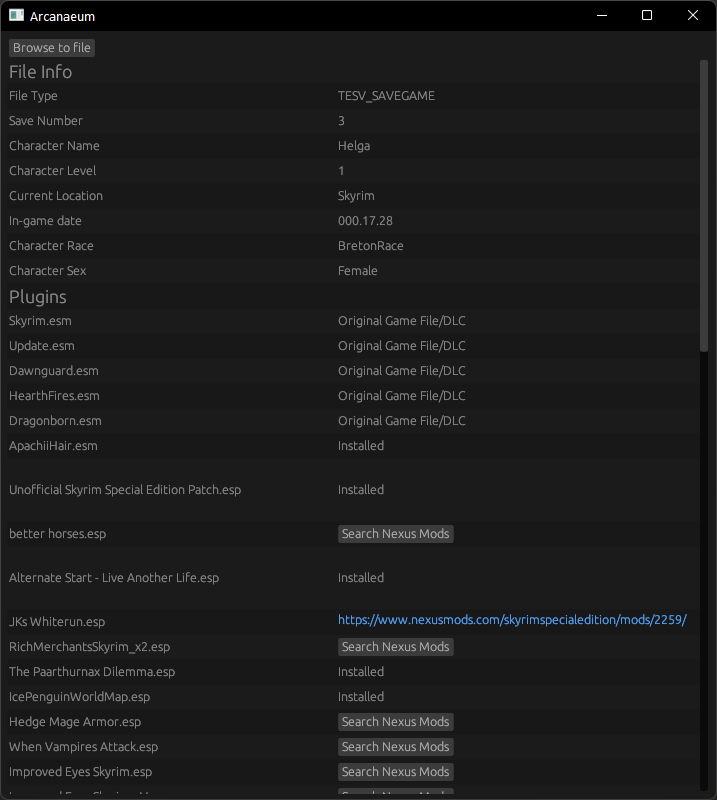
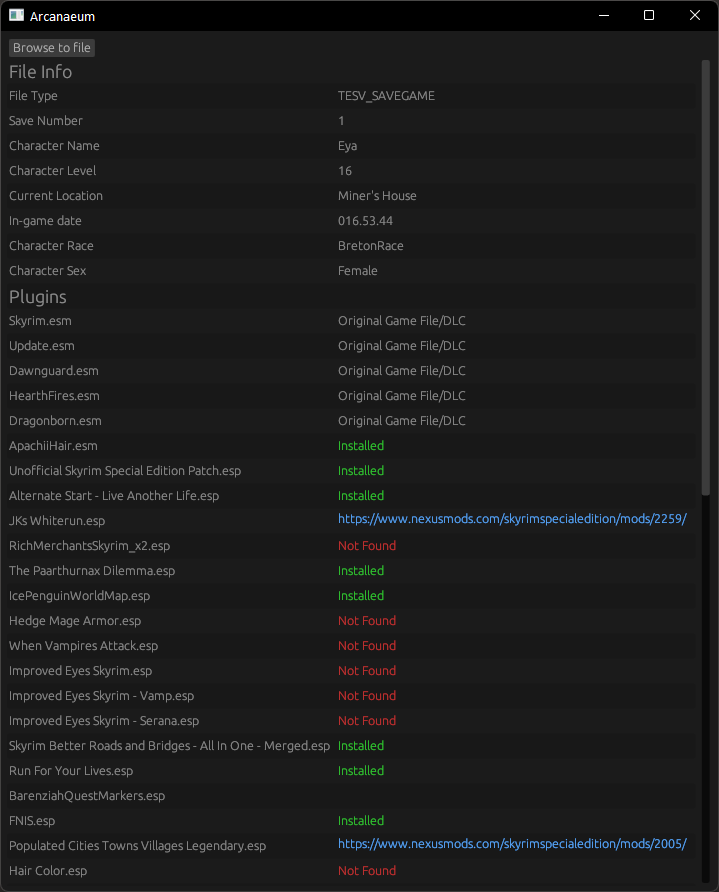
Detect installed mods

diff --git a/src/main.rs b/src/main.rs
@@ -3,6 +3,7 @@ use std::collections::HashSet;
 use std::io::Read;
 
 use eframe::egui;
+use eframe::egui::Color32;
 use eframe::epi;
 use mod_search::vortex_scanner::get_installed_from_all_profiles;
 use mod_search::vortex_scanner::get_masterlist_data;
@@ -64,9 +65,11 @@ impl epi::App for AppState {
                                         sktypes::skui_value::PluginType::Mod => {
                                             let key = &value_entry.get_value_string();
                                             if self.installed.contains(key) {
-                                                ui.label("Installed");
-                                            }
-                                            if self.mod_map.contains_key(key) {
+                                                ui.colored_label(
+                                                    Color32::from_rgb(50, 200, 50),
+                                                    "Installed",
+                                                );
+                                            } else if self.mod_map.contains_key(key) {
                                                 let value = self.mod_map.get(key).unwrap();
 
                                                 egui::Grid::new(key.as_str()).show(ui, |ui| {
@@ -76,9 +79,10 @@ impl epi::App for AppState {
                                                     }
                                                 });
                                             } else {
-                                                if ui.button("Search Nexus Mods").clicked() {
-                                                    tracing::info!("Search for mod");
-                                                }
+                                                ui.colored_label(
+                                                    Color32::from_rgb(200, 50, 50),
+                                                    "Not Found",
+                                                );
                                             }
                                         }
                                         sktypes::skui_value::PluginType::NotAPlugin => {}
@@ -95,7 +99,6 @@ impl epi::App for AppState {
                             ui.end_row();
                         }
                     });
-                ui.hyperlink("https://en.uesp.net/wiki/Skyrim_Mod:Save_File_Format");
             });
         });
     }
@@ -215,7 +218,7 @@ fn main() {
         file_path: String::from(""),
         values: Vec::with_capacity(150),
         mod_map: load_mod_map(),
-        installed: load_installed()
+        installed: load_installed(),
     };
     let mut window_options = eframe::NativeOptions::default();
     window_options.initial_window_size = Some(egui::Vec2::new(800., 768.));

diff --git a/src/mod_search/vortex_scanner.rs b/src/mod_search/vortex_scanner.rs
@@ -31,7 +31,7 @@ pub fn get_masterlist_data() -> Vec<Plugin> {
     path_buf.push("masterlist.yaml");
     println!("Looking for vortex at: {:?}", path_buf);
 
-    let mut file_contents = fs::read_to_string(path_buf).expect("Could not read file");
+    let file_contents: String = fs::read_to_string(path_buf).expect("Could not read file");
     let parsed: MasterListFileType =
         serde_yaml::from_str(file_contents.as_str()).expect("It borked!");
     parsed.plugins.iter().map(|x| parse_plugin(&x)).collect()
